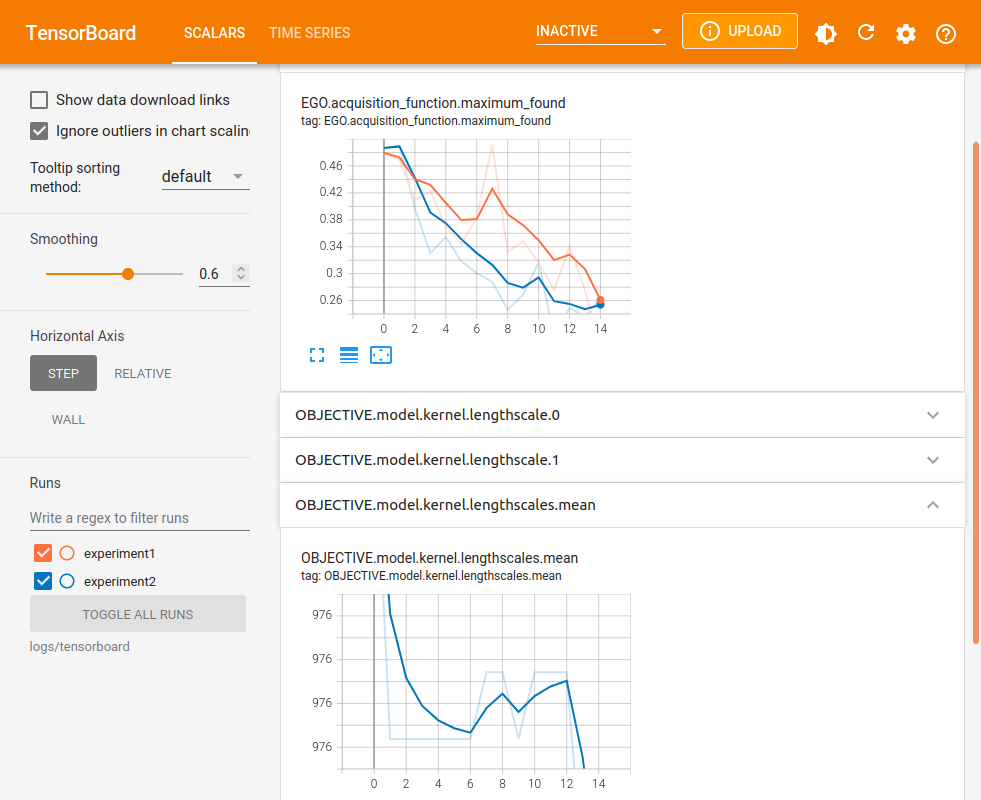
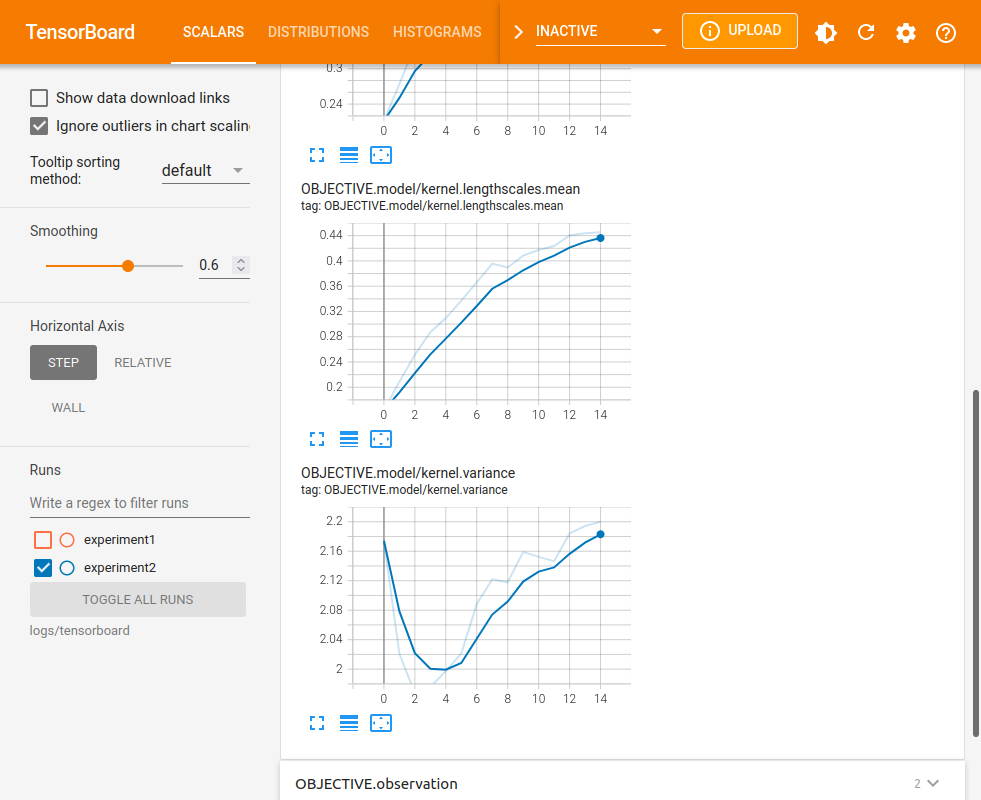
Group tensorboard plots, add query point plots (#514)

diff --git a/tests/unit/test_logging.py b/tests/unit/test_logging.py
@@ -26,6 +26,7 @@ import tensorflow as tf
 
 from tests.util.misc import FixedAcquisitionRule, mk_dataset
 from tests.util.models.gpflow.models import PseudoTrainableProbModel, QuadraticMeanAndRBFKernel
+from trieste.ask_tell_optimization import AskTellOptimizer
 from trieste.bayesian_optimizer import BayesianOptimizer
 from trieste.data import Dataset
 from trieste.logging import (
@@ -106,19 +107,18 @@ def test_tensorboard_logging(mocked_summary_scalar: unittest.mock.MagicMock) -> 
         )
 
     ordered_scalar_names = [
-        "A.observation.best_overall",
-        "A.observation.best_new",
-        "wallclock.step",
-        "wallclock.query_point_generation",
-        "wallclock.model_fitting",
+        "A.observation/best_new_observation",
+        "A.observation/best_overall",
+        "query_points/[0]",
+        "wallclock/step",
+        "wallclock/query_point_generation",
+        "wallclock/model_fitting",
     ]
 
-    for call_arg, (step, scalar_name) in zip_longest(
+    for call_arg, (_, scalar_name) in zip_longest(
         mocked_summary_scalar.call_args_list, product(range(steps), ordered_scalar_names)
     ):
-
         assert call_arg[0][0] == scalar_name
-        assert call_arg[-1]["step"] == step
         assert isinstance(call_arg[0][1], float)
 
 
@@ -159,20 +159,20 @@ def test_wallclock_time_logging(
 
     other_scalars = 0
 
-    for scalar in mocked_summary_scalar.call_args_list:
+    for i, scalar in enumerate(mocked_summary_scalar.call_args_list):
         name = scalar[0][0]
         value = scalar[0][1]
-        step = scalar[-1]["step"]
+        step = i // (len(mocked_summary_scalar.call_args_list) / steps)
         if name.startswith("wallclock"):
             assert value > 0  # want positive wallclock times
-        if name == "wallclock.step":
+        if name == "wallclock/step":
             if fit_initial_model and step == 0:
                 npt.assert_allclose(value, 2.0 * model_fit_time + acq_time, rtol=0.1)
             else:
                 npt.assert_allclose(value, model_fit_time + acq_time, rtol=0.1)
-        elif name == "wallclock.query_point_generation":
+        elif name == "wallclock/query_point_generation":
             npt.assert_allclose(value, acq_time, rtol=0.01)
-        elif name == "wallclock.model_fitting":
+        elif name == "wallclock/model_fitting":
             if fit_initial_model and step == 0:
                 npt.assert_allclose(value, 2.0 * model_fit_time, rtol=0.1)
             else:
@@ -182,3 +182,29 @@ def test_wallclock_time_logging(
 
     # check that we processed all the wallclocks we were expecting
     assert len(mocked_summary_scalar.call_args_list) == other_scalars + 3 * steps
+
+
+@unittest.mock.patch("trieste.models.gpflow.interface.tf.summary.scalar")
+def test_tensorboard_logging_ask_tell(mocked_summary_scalar: unittest.mock.MagicMock) -> None:
+    mocked_summary_writer = unittest.mock.MagicMock()
+    with tensorboard_writer(mocked_summary_writer):
+        data, models = {"A": mk_dataset([[0.0]], [[0.0]])}, {"A": _PseudoTrainableQuadratic()}
+        rule = FixedAcquisitionRule([[0.0]])
+        ask_tell = AskTellOptimizer(Box([-1], [1]), data, models, rule)
+        with step_number(3):
+            new_point = ask_tell.ask()
+            ask_tell.tell({"A": Dataset(new_point, new_point ** 2)})
+
+    ordered_scalar_names = [
+        "query_points/[0]",
+        "wallclock/query_point_generation",
+        "A.observation/best_new_observation",
+        "A.observation/best_overall",
+        "wallclock/model_fitting",
+    ]
+
+    for call_arg, scalar_name in zip_longest(
+        mocked_summary_scalar.call_args_list, ordered_scalar_names
+    ):
+        assert call_arg[0][0] == scalar_name
+        assert isinstance(call_arg[0][1], float)

diff --git a/trieste/ask_tell_optimization.py b/trieste/ask_tell_optimization.py
@@ -35,7 +35,7 @@ from .models.config import ModelConfigType
 from .observer import OBJECTIVE
 from .space import SearchSpace
 from .types import State, TensorType
-from .utils import Ok, map_values
+from .utils import Ok, Timer, map_values
 
 StateType = TypeVar("StateType")
 """ Unbound type variable. """
@@ -368,14 +368,29 @@ class AskTellOptimizer(Generic[SearchSpaceType]):
         #   which, when called, returns state and points
         # so code below is needed to cater for both cases
 
-        points_or_stateful = self._acquisition_rule.acquire(
-            self._search_space, self._models, datasets=self._datasets
-        )
+        with Timer() as query_point_generation_timer:
+            points_or_stateful = self._acquisition_rule.acquire(
+                self._search_space, self._models, datasets=self._datasets
+            )
 
         if callable(points_or_stateful):
             self._acquisition_state, query_points = points_or_stateful(self._acquisition_state)
         else:
             query_points = points_or_stateful
+
+        summary_writer = get_tensorboard_writer()
+        if summary_writer:
+            with summary_writer.as_default(step=get_step_number()):
+                if tf.rank(query_points) == 2:
+                    for i in tf.range(tf.shape(query_points)[1]):
+                        if len(query_points) == 1:
+                            tf.summary.scalar(f"query_points/[{i}]", float(query_points[0, i]))
+                        else:
+                            tf.summary.histogram(f"query_points/[{i}]", query_points[:, i])
+                tf.summary.scalar(
+                    "wallclock/query_point_generation",
+                    query_point_generation_timer.time,
+                )
 
         return query_points
 
@@ -396,25 +411,26 @@ class AskTellOptimizer(Generic[SearchSpaceType]):
 
         self._datasets = {tag: self._datasets[tag] + new_data[tag] for tag in new_data}
 
-        for tag, model in self._models.items():
-            dataset = self._datasets[tag]
-            model.update(dataset)
-            model.optimize(dataset)
+        with Timer() as model_fitting_timer:
+            for tag, model in self._models.items():
+                dataset = self._datasets[tag]
+                model.update(dataset)
+                model.optimize(dataset)
 
         summary_writer = get_tensorboard_writer()
-        step_number = get_step_number()
         if summary_writer:
-            with summary_writer.as_default():
+            with summary_writer.as_default(step=get_step_number()):
                 for tag in self._datasets:
                     with tf.name_scope(f"{tag}.model"):
                         self._models[tag].log()
-                    tf.summary.scalar(
-                        f"{tag}.observation.best_overall",
-                        np.min(self._datasets[tag].observations),
-                        step=step_number,
+                    tf.summary.histogram(
+                        f"{tag}.observation/new_observations", new_data[tag].observations
                     )
                     tf.summary.scalar(
-                        f"{tag}.observation.best_new",
+                        f"{tag}.observation/best_new_observation",
                         np.min(new_data[tag].observations),
-                        step=step_number,
                     )
+                    tf.summary.scalar(
+                        f"{tag}.observation/best_overall", np.min(self._datasets[tag].observations)
+                    )
+                    tf.summary.scalar("wallclock/model_fitting", model_fitting_timer.time)

diff --git a/trieste/bayesian_optimizer.py b/trieste/bayesian_optimizer.py
@@ -492,39 +492,45 @@ class BayesianOptimizer(Generic[SearchSpaceType]):
 
                 summary_writer = get_tensorboard_writer()
                 if summary_writer:
-                    with summary_writer.as_default():
+                    with summary_writer.as_default(step=step):
                         for tag in datasets:
                             with tf.name_scope(f"{tag}.model"):
                                 models[tag].log()
-                            tf.summary.scalar(
-                                f"{tag}.observation.best_overall",
-                                np.min(datasets[tag].observations),
-                                step=step,
+                            tf.summary.histogram(
+                                f"{tag}.observation/new_observations",
+                                tagged_output[tag].observations,
                             )
                             tf.summary.scalar(
-                                f"{tag}.observation.best_new",
+                                f"{tag}.observation/best_new_observation",
                                 np.min(tagged_output[tag].observations),
-                                step=step,
                             )
+                            tf.summary.scalar(
+                                f"{tag}.observation/best_overall",
+                                np.min(datasets[tag].observations),
+                            )
+
+                        if tf.rank(query_points) == 2:
+                            for i in tf.range(tf.shape(query_points)[1]):
+                                if len(query_points) == 1:
+                                    tf.summary.scalar(
+                                        f"query_points/[{i}]", float(query_points[0, i])
+                                    )
+                                else:
+                                    tf.summary.histogram(f"query_points/[{i}]", query_points[:, i])
+
+                        tf.summary.scalar("wallclock/step", total_step_wallclock_timer.time)
                         tf.summary.scalar(
-                            "wallclock.step",
-                            total_step_wallclock_timer.time,
-                            step=step,
-                        )
-                        tf.summary.scalar(
-                            "wallclock.query_point_generation",
+                            "wallclock/query_point_generation",
                             query_point_generation_timer.time,
-                            step=step,
                         )
                         tf.summary.scalar(
-                            "wallclock.model_fitting",
+                            "wallclock/model_fitting",
                             model_fitting_timer.time
                             + (
                                 initial_model_fitting_timer.time
                                 if (step == 0 and fit_initial_model)
                                 else 0
                             ),
-                            step=step,
                         )
 
             except Exception as error:  # pylint: disable=broad-except

diff --git a/trieste/acquisition/rule.py b/trieste/acquisition/rule.py
@@ -262,11 +262,13 @@ class EfficientGlobalOptimization(
 
         summary_writer = get_tensorboard_writer()
         step_number = get_step_number()
+
         if summary_writer:
             with summary_writer.as_default(step=step_number):
                 batched_points = tf.expand_dims(points, axis=0)
                 value = self._acquisition_function(batched_points)[0][0]
-                tf.summary.scalar("EGO.acquisition_function.maximum_found", value)
+                greedy = isinstance(self._builder, GreedyAcquisitionFunctionBuilder)
+                tf.summary.scalar("EGO.acquisition_function/maximum_found" + "[0]" * greedy, value)
 
         if isinstance(self._builder, GreedyAcquisitionFunctionBuilder):
             for i in range(
@@ -286,7 +288,7 @@ class EfficientGlobalOptimization(
                     with summary_writer.as_default(step=step_number):
                         batched_points = tf.expand_dims(chosen_point, axis=0)
                         value = self._acquisition_function(batched_points)[0][0]
-                        tf.summary.scalar(f"EGO.acquisition_function.maximum_found.{i+1}", value)
+                        tf.summary.scalar(f"EGO.acquisition_function/maximum_found[{i+1}]", value)
 
         return points
 
@@ -711,7 +713,7 @@ class AsynchronousGreedy(
                         batched_point = tf.expand_dims(new_point, axis=0)
                         value = self._acquisition_function(batched_point)[0][0]
                         tf.summary.scalar(
-                            f"AsyncGreedy.acquisition_function.maximum_found.{i}", value
+                            f"AsyncGreedy.acquisition_function/maximum_found[{i}]", value
                         )
                 state = state.add_pending_points(new_point)
                 new_points_batch = tf.concat([new_points_batch, new_point], axis=0)

diff --git a/trieste/models/gpflow/interface.py b/trieste/models/gpflow/interface.py
@@ -115,7 +115,7 @@ class GPflowPredictor(
                     tf.summary.scalar("kernel.lengthscale", lengthscales)
                 elif tf.rank(lengthscales) == 1:
                     for i, lengthscale in enumerate(lengthscales):
-                        tf.summary.scalar(f"kernel.lengthscale.{i}", lengthscale)
+                        tf.summary.scalar(f"kernel.lengthscale[{i}]", lengthscale)
 
     def reparam_sampler(self, num_samples: int) -> ReparametrizationSampler[GPflowPredictor]:
         """
